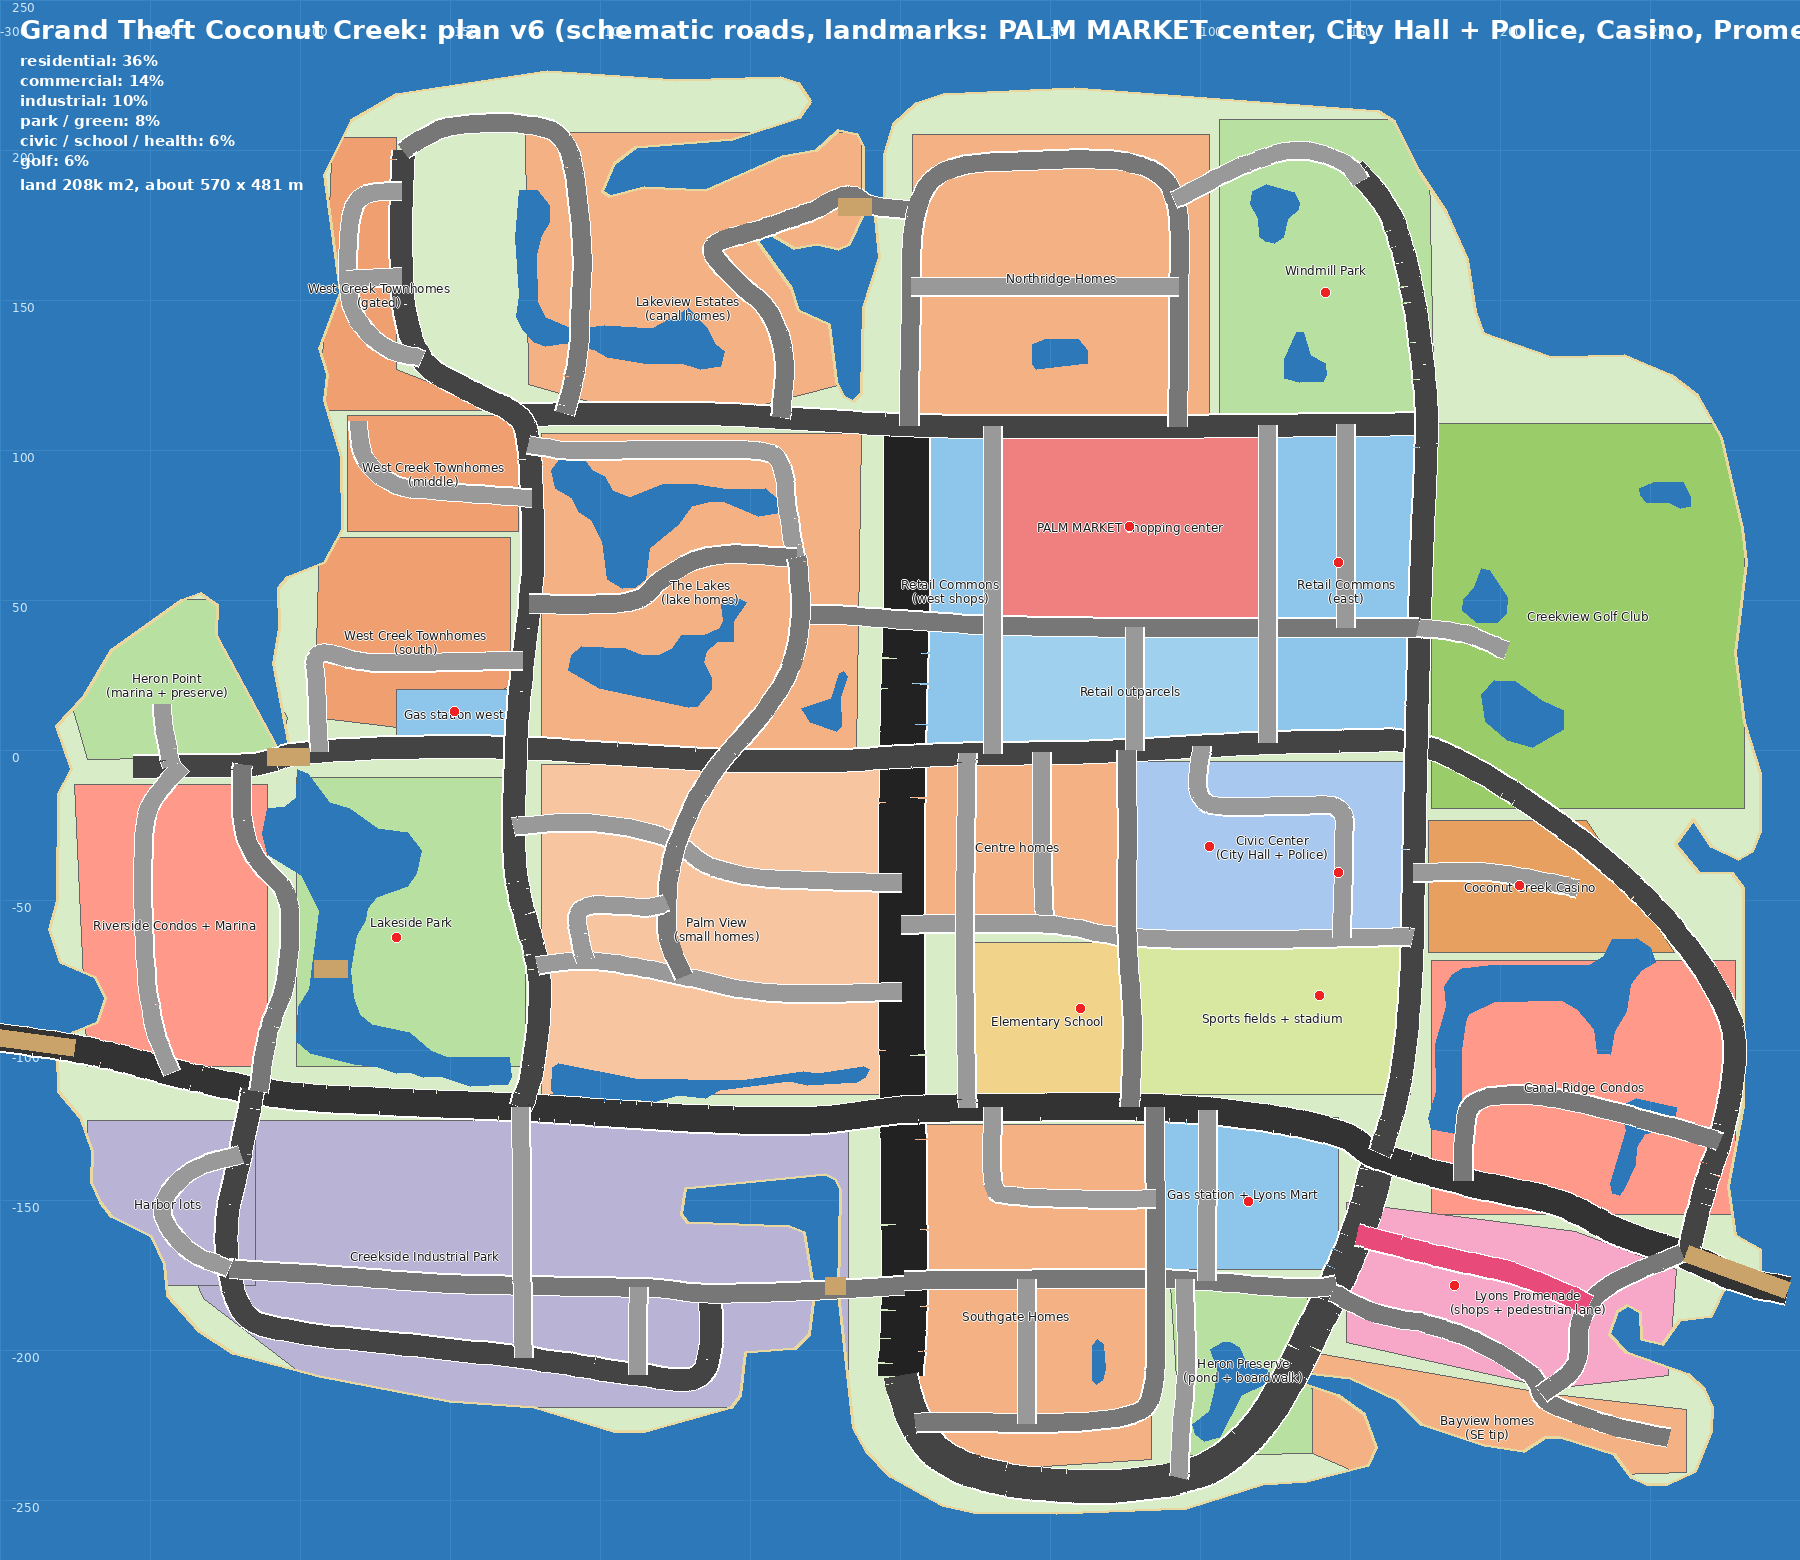
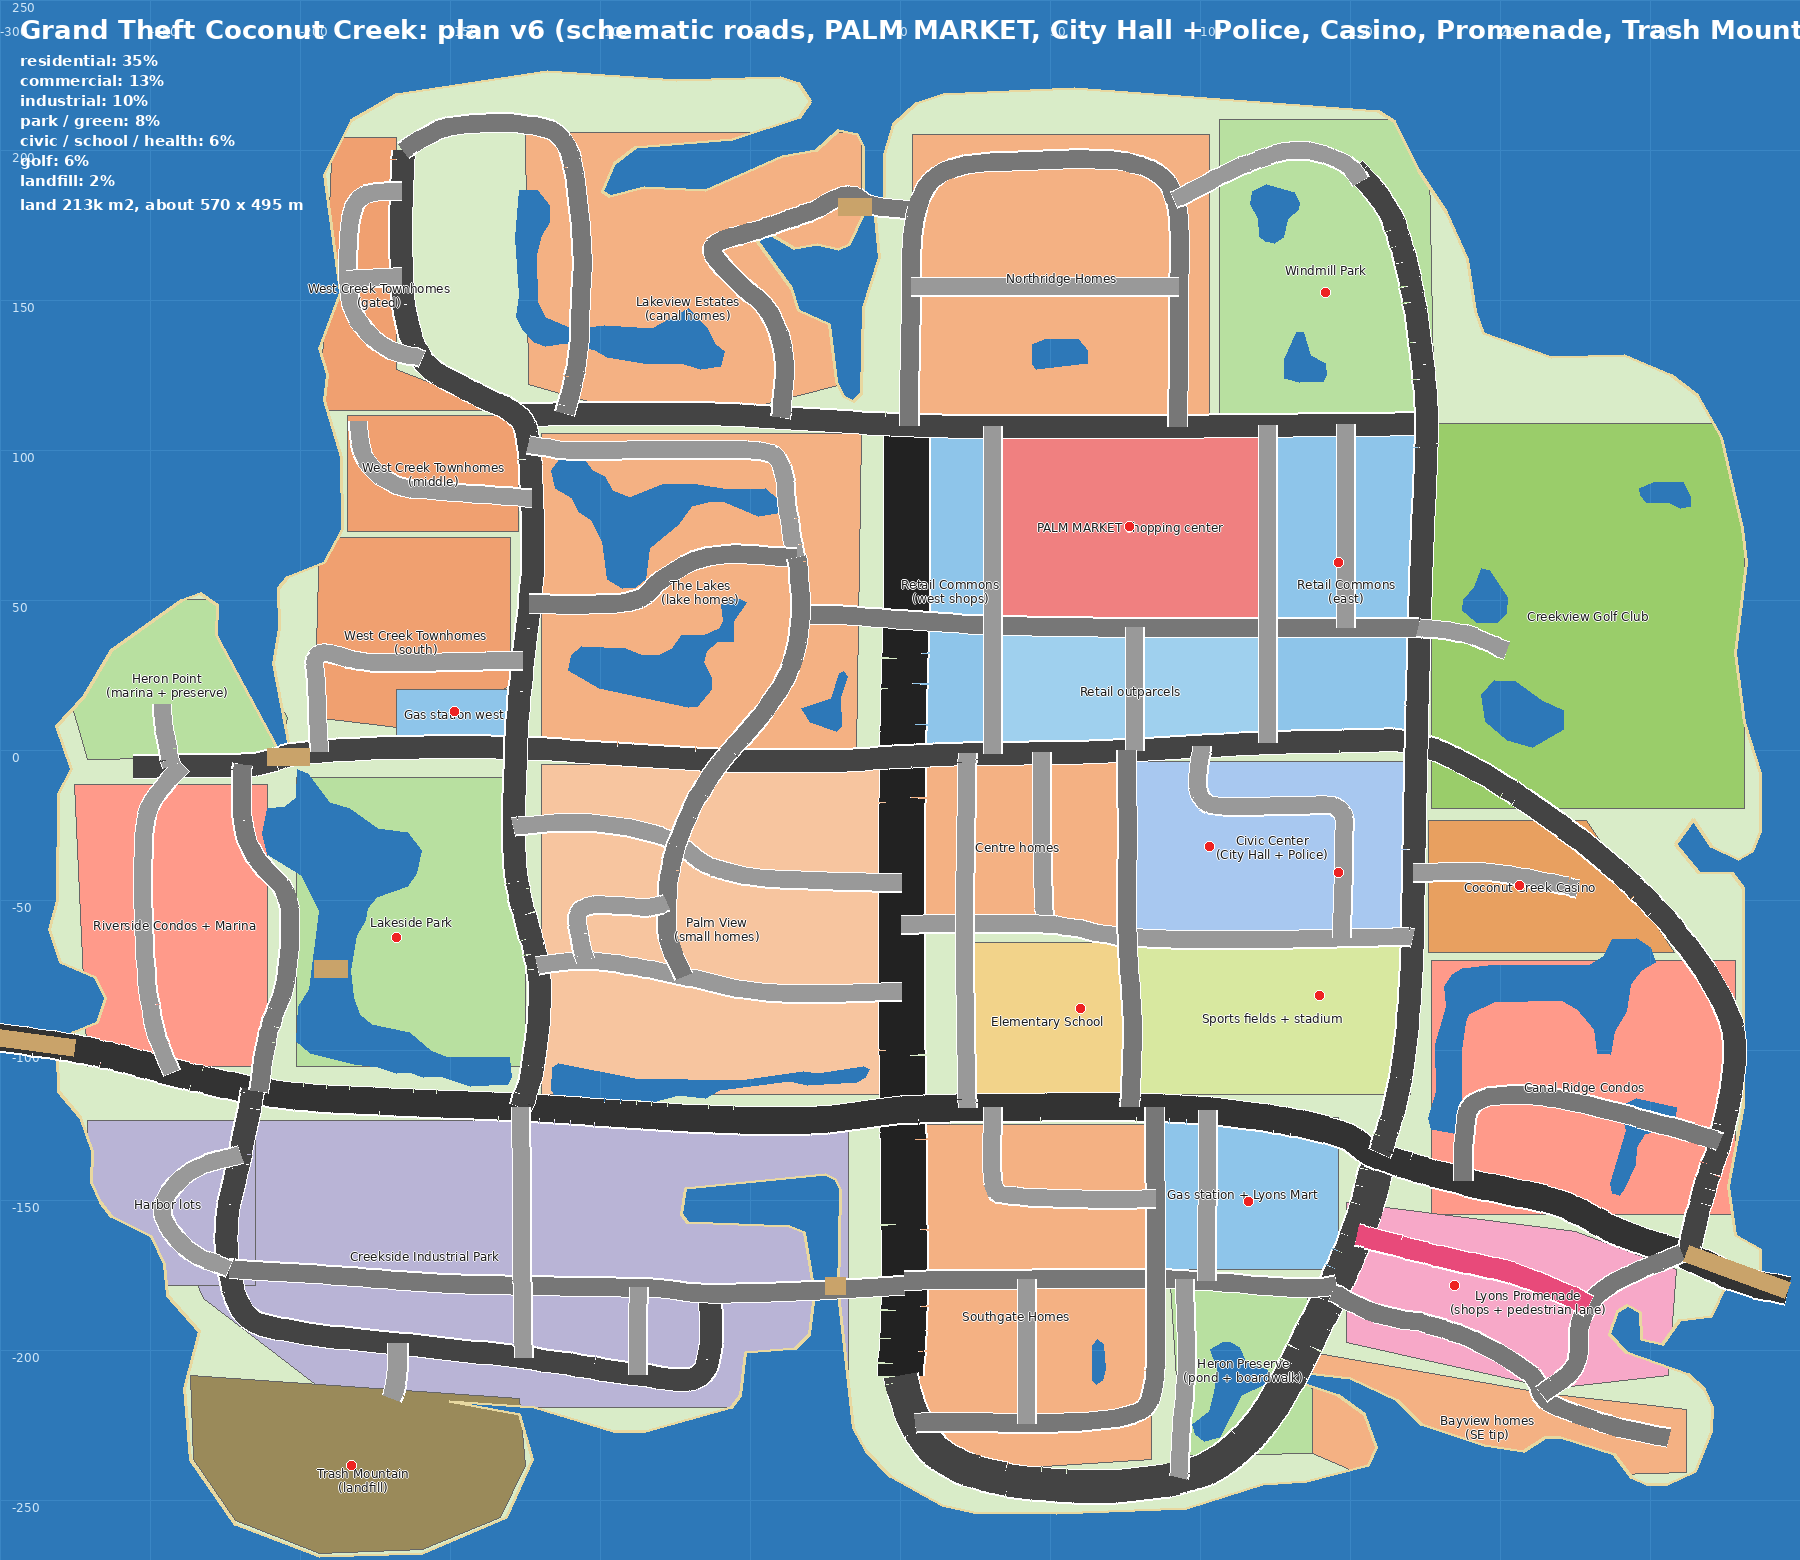
city-clone: Trash Mountain landfill peninsula (SW), promenade + landfill concept art
Claude-Session: https://claude.ai/code/session_01QbDoFPGu5z24oXZd8dk3Jx

Changed region(s): [[0.0933, 0.8615, 0.3111, 1.0], [0.4667, 0.0, 1.0, 0.0308], [0.0311, 0.0923, 0.1556, 0.1538]]

diff --git a/city-clone/plan/map_px.py b/city-clone/plan/map_px.py
@@ -53,6 +53,7 @@ RAW_ROADS = {
  # industrial
  "Industrial Row": (6, 3.5, [(172, 948), (250, 952), (330, 958), (397, 960), (497, 962), (542, 966), (620, 964), (692, 960)]),
  "Creekside Rd": (5, 3.2, [(397, 826), (397, 960), (398, 1016)]),
+ "Landfill Rd": (5, 3.6, [(300, 1006), (300, 1030), (296, 1048)]),
  "Dock Ln": (5, 3.2, [(487, 962), (487, 1024)]),
  "Harbor Lot Rd": (5, 3.2, [(176, 858), (140, 872), (118, 900), (135, 930), (170, 947)]),
  # south-east
@@ -69,7 +70,7 @@ RAW_ROADS = {
  "Casino Dr": (5, 3.2, [(1088, 640), (1150, 640), (1215, 652)]),
  "Canal Ridge Dr": (6, 3.5, [(1128, 874), (1128, 840), (1135, 818), (1170, 812), (1215, 818), (1280, 835), (1318, 846)]),
 }
-OK_ENDS = {("Club Dr", -1), ("Casino Dr", -1), ("Hospital Dr", -1), ("Palm Blvd", 0), ("Heron Point Dr", -1), ("Hospital Dr", -1), ("Lyons Ln", -1), ("Wiles Rd", 0), ("Wiles Rd", -1)}   # coast / bridge-gate / lot / cul-de-sac ends allowed
+OK_ENDS = {("Landfill Rd", -1), ("Club Dr", -1), ("Casino Dr", -1), ("Hospital Dr", -1), ("Palm Blvd", 0), ("Heron Point Dr", -1), ("Hospital Dr", -1), ("Lyons Ln", -1), ("Wiles Rd", 0), ("Wiles Rd", -1)}   # coast / bridge-gate / lot / cul-de-sac ends allowed
 SNAP = 17.0
 def _cr(pts, step=4.0):
     import math
@@ -142,10 +143,11 @@ DISTRICTS = {
  "Southgate Homes": (RES, "#f4b183", [(700, 835), (885, 835), (885, 1095), (730, 1105), (700, 1050)]),
  "Heron Preserve (pond + boardwalk)": (GRN, "#b8e0a0", [(900, 960), (1005, 962), (1012, 1090), (908, 1092)]),
  "Bayview homes (SE tip)": (RES, "#f4b183", [(1010, 1012), (1190, 1044), (1300, 1056), (1300, 1105), (1060, 1112), (1010, 1090)]),
+ "Trash Mountain (landfill)": ("landfill", "#9a8a5a", [(140, 1030), (395, 1048), (400, 1100), (380, 1140), (320, 1165), (240, 1168), (175, 1142), (142, 1095)]),
  "Harbor lots": (IND, "#b9b4d6", [(60, 832), (190, 832), (190, 960), (110, 960), (60, 900)]),
 }
 LANDMARKS = [("PALM MARKET", (868, 372)), ("City Hall", (930, 620)), ("Police", (1030, 640)), ("Casino", (1170, 650)), ("Retail Commons", (1030, 400)), ("Gas station", (960, 895)), ("Lyons Promenade", (1120, 960)),
-             ("Windmill Park", (1020, 190)), ("Lakeside Park", (300, 690)), ("Stadium", (1015, 735)), ("Elementary", (830, 745)), ("Gas station west", (345, 515))]
+             ("Trash Mountain", (265, 1100)), ("Windmill Park", (1020, 190)), ("Lakeside Park", (300, 690)), ("Stadium", (1015, 735)), ("Elementary", (830, 745)), ("Gas station west", (345, 515))]
 
 
 # ---------------- metre-space data for the 3D build ----------------

diff --git a/city-clone/plan/plan_v5.py b/city-clone/plan/plan_v5.py
@@ -60,7 +60,7 @@ def clean(path):
             d.text((tx, y_), ln, fill="#1a1a1a", font=F2, anchor="mm")
     for nm, p in M.LANDMARKS:
         x, y = PX(p); d.ellipse([x - 5, y - 5, x + 5, y + 5], fill="#e22", outline="#fff")
-    d.text((20, 14), "Grand Theft Coconut Creek: plan v6 (schematic roads, landmarks: PALM MARKET center, City Hall + Police, Casino, Promenade)", fill="#fff", font=F3)
+    d.text((20, 14), "Grand Theft Coconut Creek: plan v6 (schematic roads, PALM MARKET, City Hall + Police, Casino, Promenade, Trash Mountain)", fill="#fff", font=F3)
     y_ = 52
     for cat, a in sorted(cats.items(), key=lambda t: -t[1]): d.text((20, y_), f"{cat}: {100 * a / tot:.0f}%", fill="#fff", font=F); y_ += 20
     d.text((20, y_ + 4), f"land {tot / 1000:.0f}k m2, about {(max(p[0] for p in TR['coast']) - min(p[0] for p in TR['coast'])) * M.SCALE:.0f} x {(max(p[1] for p in TR['coast']) - min(p[1] for p in TR['coast'])) * M.SCALE:.0f} m", fill="#fff", font=F)
